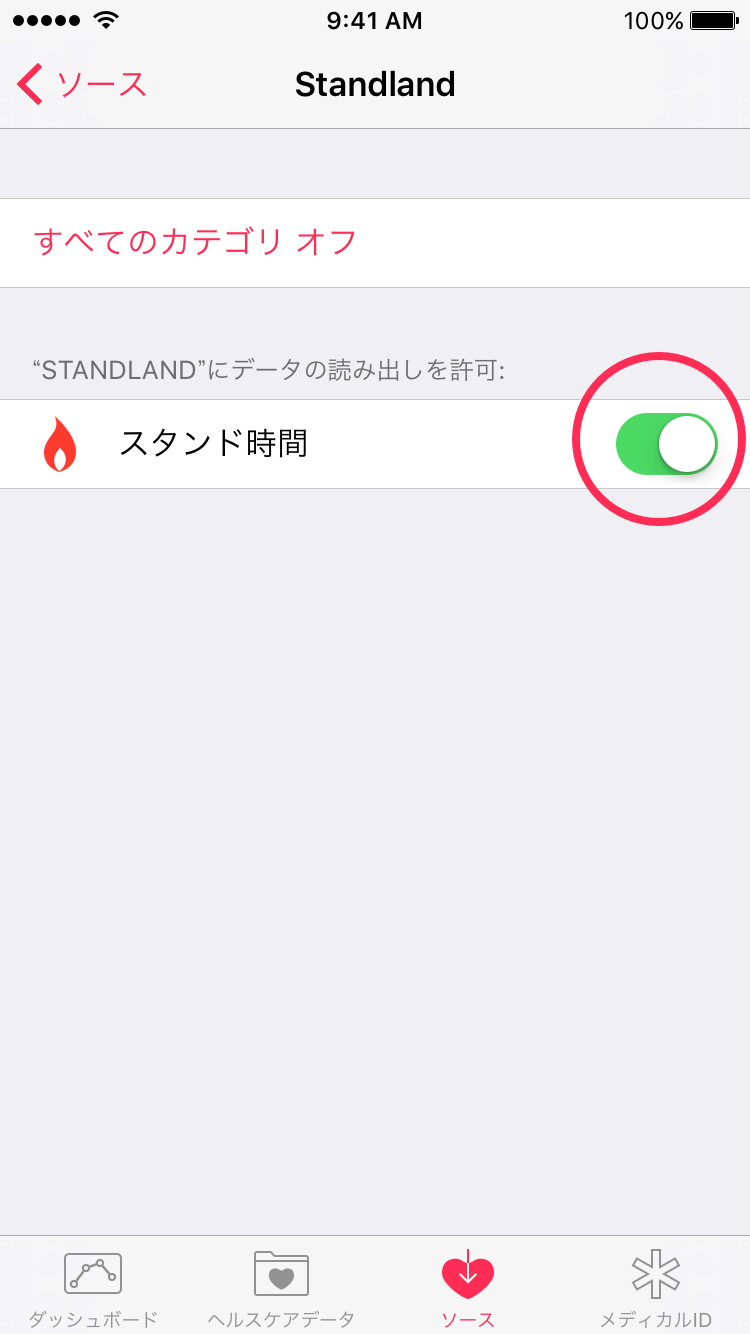
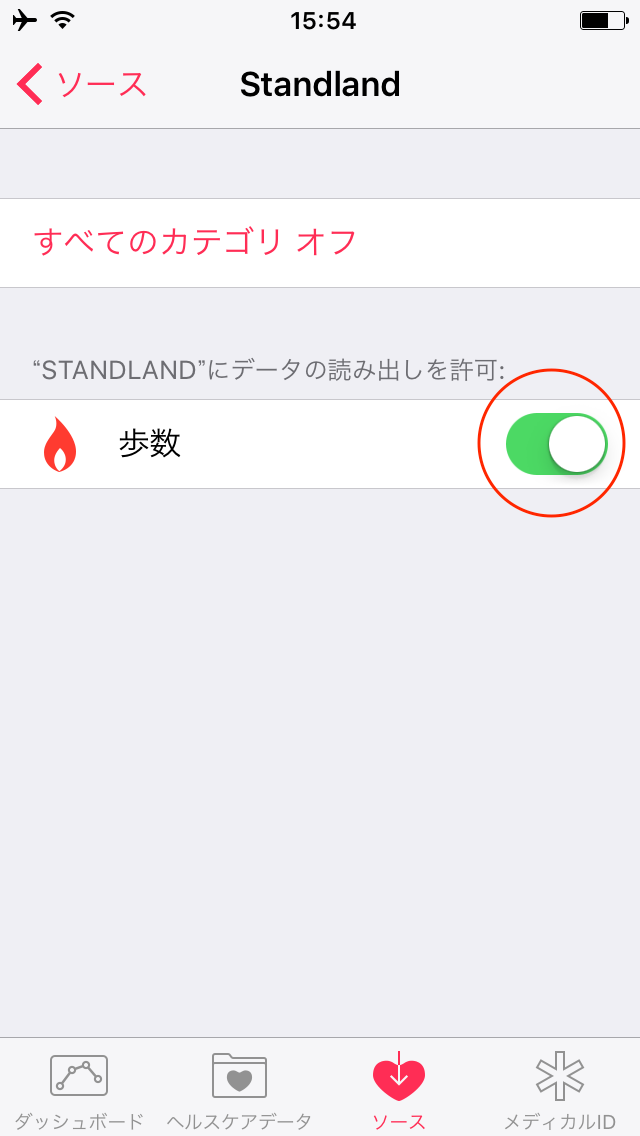
Imorove help pages on Standland

diff --git a/ja/standland/help-03.html b/ja/standland/help-03.html
@@ -25,14 +25,33 @@
 
 		<h2>スタンド数が表示されません</h2>
 
-<p>Standlandにデータが表示されない場合、まずは、Appleの「ヘルスケア」アプリで、アクセス許可がされているかをご確認ください。<br>
-	<a href="help-01.html">確認方法はこちら</a>
+<p>Standlandでは、1時間に1分以上（歩数で80歩以上）歩くことで、1スタンドとカウントします。<br>
+iPhoneの「ヘルスケア」アプリから、通常は「歩数」を、Apple Watchユーザーの方は「スタンド時間」を読み込んで計算されています。<br>
+（ヘルスケアアプリにデータが記録されるまで、5分程度時間がかかることがあります）</p>
+
+<p><strong>歩数の場合は、1時間に80歩以上で1スタンドになりますので、まずは1時間に80歩以上歩いているかどうかをご確認ください。</strong><br>
+1時間に80歩以上歩いているのに、Standlandでスタンド数がカウントされない場合は、以下をご確認ください。</p>
+
+<h3>1. Standlandの設定画面のデータ元の確認</h3>
+
+<p>Standlandの設定画面を開き、データ元として「歩数」（Apple Watchをご利用の方は「スタンド時間」）が、選択されていることをご確認ください。<br>
+違うデータ元になっている場合は、タップして切り替えてください。</p>
+
+<p><img src="../../standland/img/help03_ja.png" alt="Standland 設定画面" width="300" height="auto"></p>
+
+
+<h3>2.「ヘルスケア」アプリでデータの読み出しが許可の確認</h3>
+
+<p>Appleの「ヘルスケア」アプリで、データの読み出しが許可がされているかをご確認ください。<br>
+	<a href="help-01.html"><i class="fa fa-caret-right"></i> 確認方法はこちら</a>
 </p>
 
-<p>もし、アクセス許可がされているにもかかわらず、データが表示されない場合は、「ヘルスケア」アプリで「歩数」（Apple Watchをお持ちの方は「スタンド時間」）の数値がきちんと表示されているかご確認ください。
+<h3>3. 「ヘルスケア」アプリ内のデータの確認</h3>
+
+<p>Appleの「ヘルスケア」アプリを開き、で「歩数」（Apple Watchをご利用の方は「スタンド時間」）の数値がきちんと表示されているかご確認ください。
 ヘルスケアアプリが不安定な状態のとき、サードパーティ製アプリはデータを読み込むことができません。<br>
 その場合、iPhoneを再起動することでヘルスケアアプリが正常に動き始め問題が解決する場合がありますので、お試しください。<br>
-	<a href="https://support.apple.com/ja-jp/HT201559">iPhoneの再起動方法</a><br>
+	<a href="https://support.apple.com/ja-jp/HT201559"><i class="fa fa-caret-right"></i> iPhoneの再起動方法</a><br>
 </p>
 
 

diff --git a/ja/standland/help-01.html b/ja/standland/help-01.html
@@ -26,16 +26,16 @@
 		<h2>ヘルスケアへのアクセス許可について</h2>
 
 		<p>Standlandは、スタンド数の計算のためにAppleのヘルスケア（HealthKit）のデータを利用します。<br>
-			通常は「歩数」を、Apple Watchユーザーの方のみ「スタンド時間」を読みこみます。</p>
+			通常は「歩数」を、Apple Watchユーザーの方は「スタンド時間」を読みこみます。</p>
 
-		<p>アクセス許可方法<br>
-		- ヘルスケアアプリを開く<br>
-		- タブの「ソース」をタップ<br>
-		- Standlandをタップ<br>
-		- 読み出し許可のスイッチをオンに<br>
+		<h3>アクセス許可方法</h3>
+		<p>1. ヘルスケアアプリを開く<br>
+		2. タブバーの「ソース」をタップ<br>
+		3. Standlandをタップ<br>
+		4. 読み出し許可のスイッチをオンに<br>
 		</p>
 
-		<p><img src="../../standland/img/help01.png" height="667" width="375" alt="Main screen"></p>
+		<p><img src="../../standland/img/help01_ja.png" height="auto" width="300" alt="Main screen"></p>
 
 	</div><!-- content -->
 </div><!-- container container-help -->
